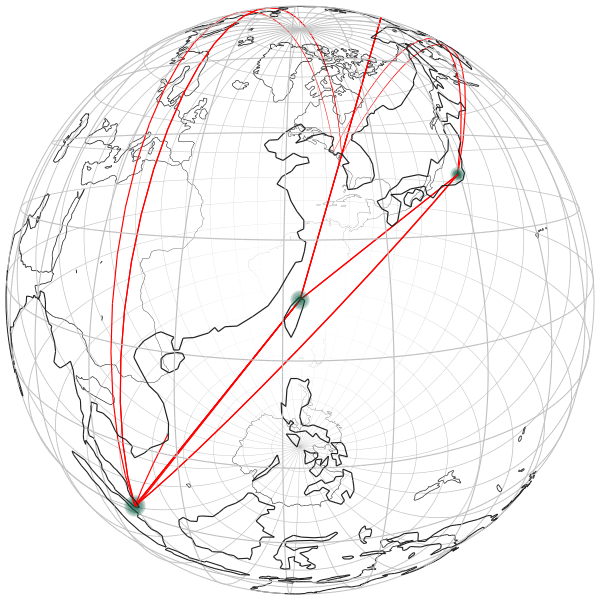
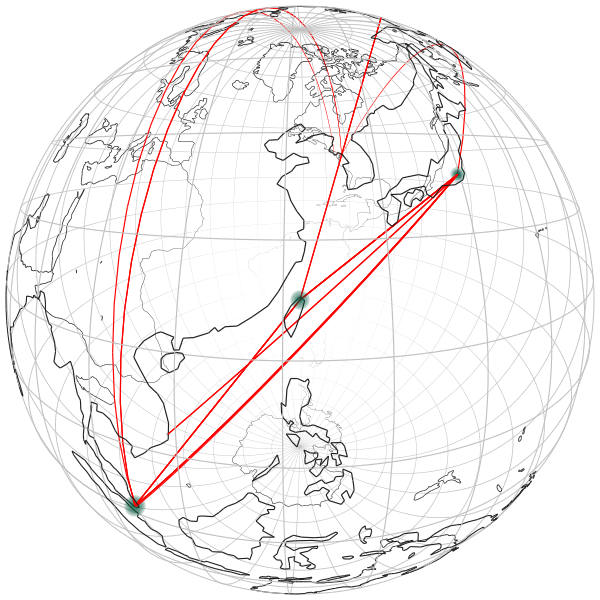
- Add a new event called map: This event will slowly update both map images.

diff --git a/webserver/mysite/flatmap.html b/webserver/mysite/flatmap.html
@@ -33,6 +33,7 @@
 </head>
 <!-- TABLE -->
 <script type="text/javascript">
+  var map = new EventSource('/map/');
   var reimg
   window.onload = function() {
       reimg = document.getElementById('re')

diff --git a/webserver/mysite/index.html b/webserver/mysite/index.html
@@ -33,6 +33,7 @@
 </head>
 <!-- TABLE -->
 <script type="text/javascript">
+  var map = new EventSource('/map/');
   var reimg
   window.onload = function() {
       reimg = document.getElementById('re')

diff --git a/main.go b/main.go
@@ -43,7 +43,7 @@ import (
 )
 
 const (
-	globalTimeOut = 5
+	globalTimeOut = 10
 )
 
 var (
@@ -155,16 +155,24 @@ func main() {
 		make(chan string),
 	}
 
+	d := &Broker{
+		make(map[chan string]bool),
+		make(chan (chan string)),
+		make(chan (chan string)),
+		make(chan string),
+	}
+
 	b.Start()
 	c.Start()
+	d.Start()
 	http.Handle("/events/", b)
 	http.Handle("/counter/", c)
+	http.Handle("/map/", d)
 
 	// Create maps and flags
 	go func() {
 		for {
 			mutex.Lock()
-			_ = utils.RunStandalone()
 			countryTotal := utils.CountryTotal()
 			mutex.Unlock()
 
@@ -203,6 +211,16 @@ func main() {
 			c.messages <- fmt.Sprintf("%s", html)
 
 			time.Sleep(time.Duration(globalTimeOut) * time.Second)
+		}
+	}()
+
+	go func() {
+		for {
+			mutex.Lock()
+			_ = utils.RunStandalone()
+			mutex.Unlock()
+
+			time.Sleep(time.Duration(globalTimeOut*120) * time.Second)
 		}
 	}()
 
